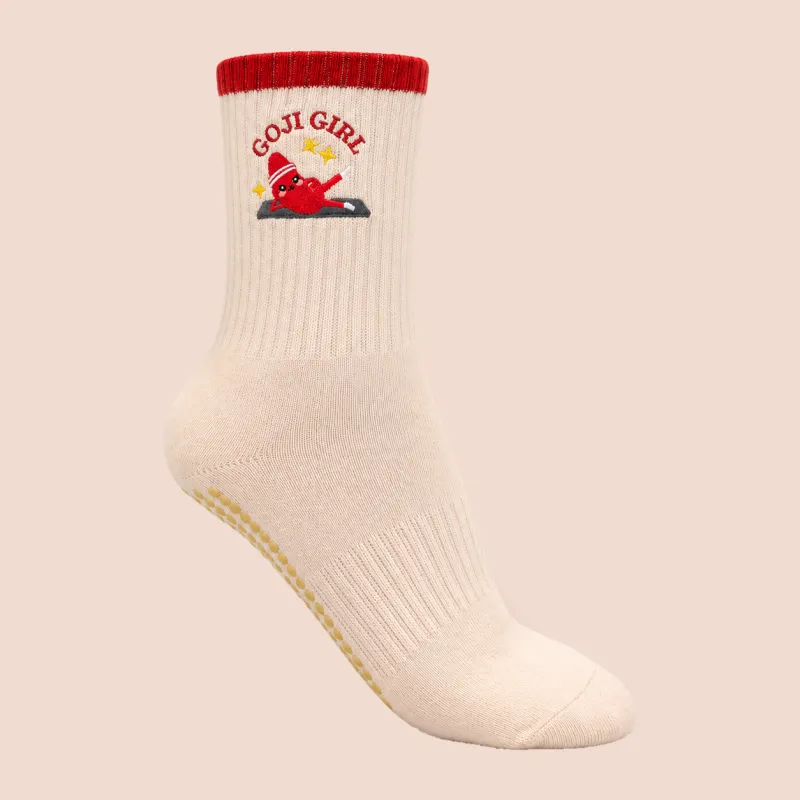
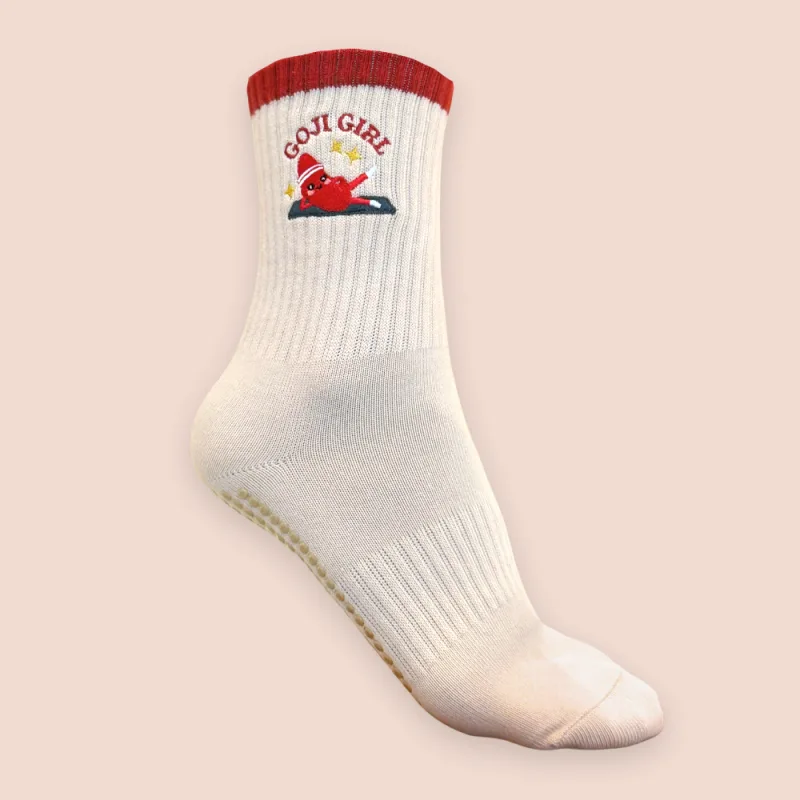
Shop: sock photos matched to the real socks
Side and sole shots are now the real photos relit in code (exact grip
pattern, colours measured against the originals), replacing the AI
re-renders whose grip dots were too big, glossy and saturated. Hero
flat-lays re-rendered with the measured knit, cuff and dot colours and
the real sole as reference. Goji Gang copy says stone, not oat.

Changed region(s): [[0.2188, 0.0625, 0.8438, 0.9688], [0.7812, 0.8438, 0.8125, 0.875]]

diff --git a/marketing/website/src/lib/shop.ts b/marketing/website/src/lib/shop.ts
@@ -81,9 +81,9 @@ export const SHOP: ShopCollection[] = [
         detail: "One pair, collect at the clinic",
         status: "buy",
         blurb:
-          "Two berries, one pair of sunglasses, and absolutely no plans to skip leg day. The Goji Gang roll deep on an oat rib-knit sock with a cocoa cuff. Go grip and the sole spells out GOJI, so even your footprints are on brand.",
+          "Two berries, one pair of sunglasses, and absolutely no plans to skip leg day. The Goji Gang roll deep on a stone rib-knit sock with a cocoa cuff. Go grip and the sole spells out GOJI, so even your footprints are on brand.",
         photos: [
-          { src: "/photos/shop/socks-gang-art.webp", alt: "A pair of Goji Gang socks: oat rib-knit with a brown cuff and two embroidered goji berries, one in sunglasses." },
+          { src: "/photos/shop/socks-gang-art.webp", alt: "A pair of Goji Gang socks: stone rib-knit with a brown cuff and two embroidered goji berries, one in sunglasses." },
           { src: "/photos/shop/socks-gang-front.webp", alt: "A Goji Gang sock from the side, showing the two embroidered berries on the cuff." },
           { src: "/photos/shop/socks-gang-sole.webp", alt: "The grip sole of a Goji Gang sock, covered in grip dots with GOJI spelt out across the middle." },
         ],
